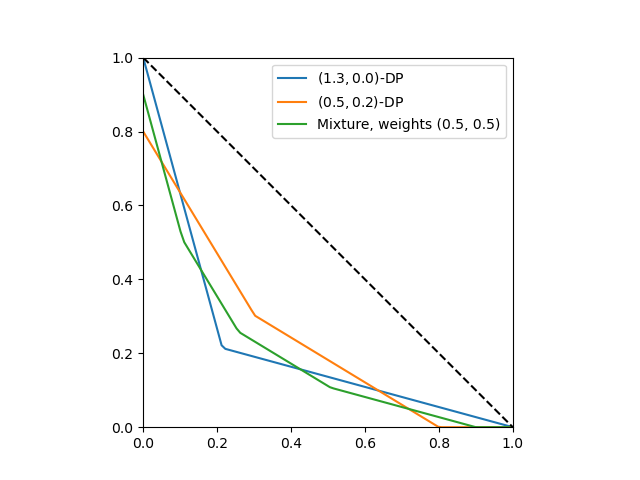
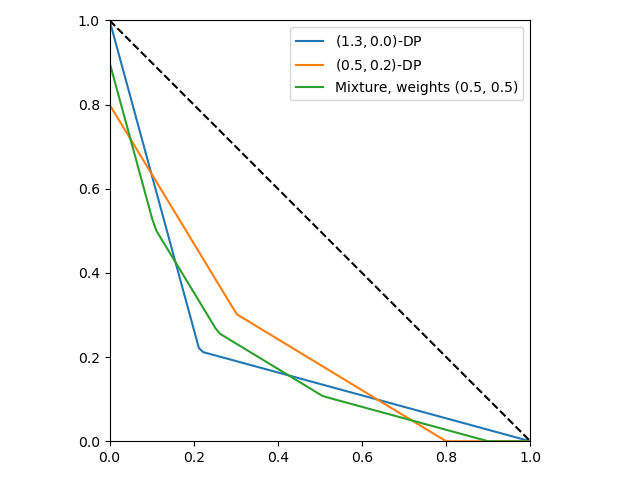
improved plots

diff --git a/src/base/utils.py b/src/base/utils.py
@@ -1,3 +1,5 @@
+import matplotlib.pyplot as plt
+
 from base.definitions import *
 from base.tradeoff_function import TradeOffFunction
 from multi_dp_mixture.piecewise_affine import DIAGONAL
@@ -45,6 +47,7 @@ def plot_multiple_functions(
     plt.legend()
     ax.set_aspect('equal', adjustable='box')
     ax.set_autoscale_on(False)
+    plt.tight_layout()
 
     if save_to is not None:
         plt.savefig(save_to)
